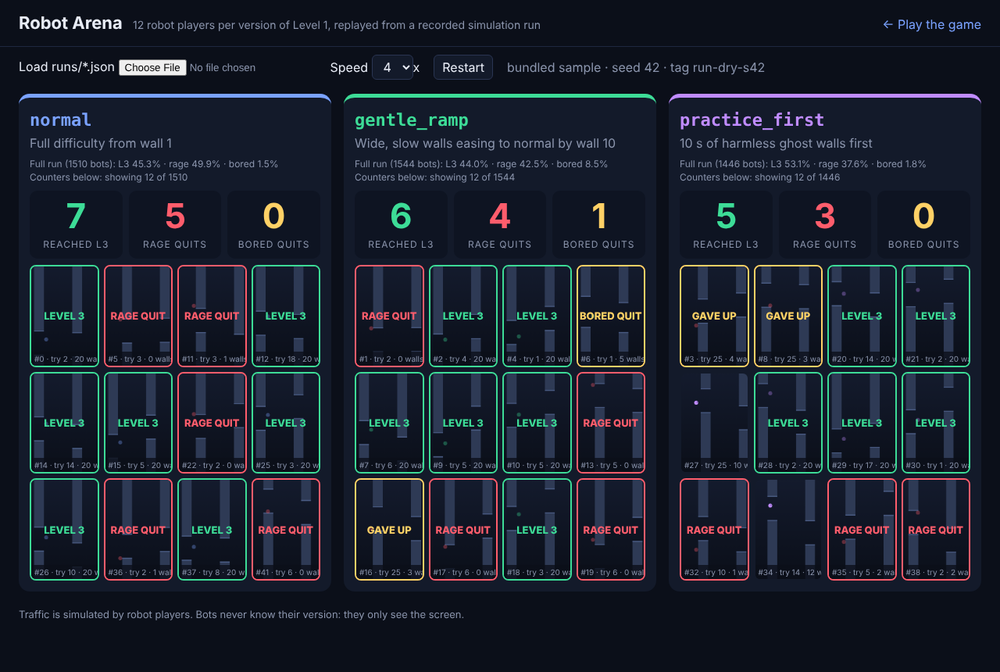
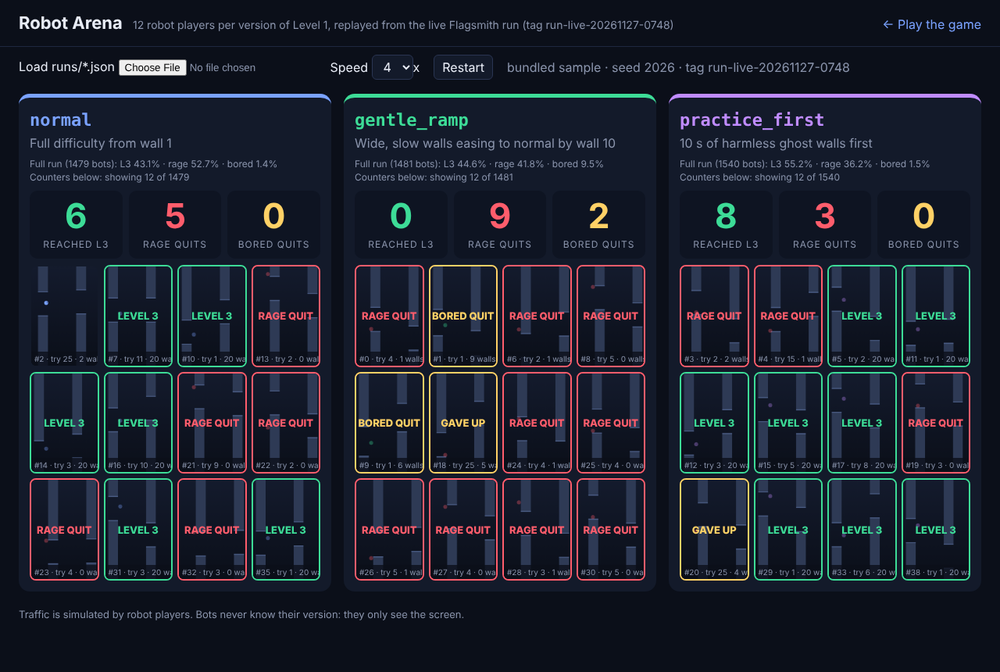
Arena replays the live Flagsmith run; re-recorded GIF and screenshot

diff --git a/web/arena.html b/web/arena.html
@@ -8,7 +8,7 @@
 </head>
 <body class="arena-page">
   <header class="top">
-    <h1>Robot Arena <span class="sub">12 robot players per version of Level 1, replayed from a recorded simulation run</span></h1>
+    <h1>Robot Arena <span class="sub">12 robot players per version of Level 1, replayed from the live Flagsmith run (tag run-live-20261127-0748)</span></h1>
     <nav><a href="./">&larr; Play the game</a></nav>
   </header>
   <section class="controls">

diff --git a/README.md b/README.md
@@ -6,7 +6,7 @@ Toggle Wars (WeMakeDevs × Flagsmith) · Track 01: Test Something Real
 
 ![Robot Arena: 12 robot players per version of Level 1, replayed side by side](docs/media/arena.gif)
 
-*The Robot Arena replaying an offline dry run (seed 42). Each lane shows 12 bots, so the counters are a tiny sample; the "Full run" line at the top of each lane is the real comparison.*
+*Robot Arena: replay of the first 12 robots per version from the live Flagsmith run; full-run rates in each lane header.*
 
 **Play it online:** `<TODO: https://<your-user>.github.io/<repo>/>` (add `arena.html` for the Robot Arena)
 **Demo video:** `<TODO: video link>` · **Pre-registration:** [docs/HYPOTHESIS.md](docs/HYPOTHESIS.md) · **Design:** [docs/DESIGN.md](docs/DESIGN.md) · **Code walkthrough:** [docs/WALKTHROUGH.md](docs/WALKTHROUGH.md)
